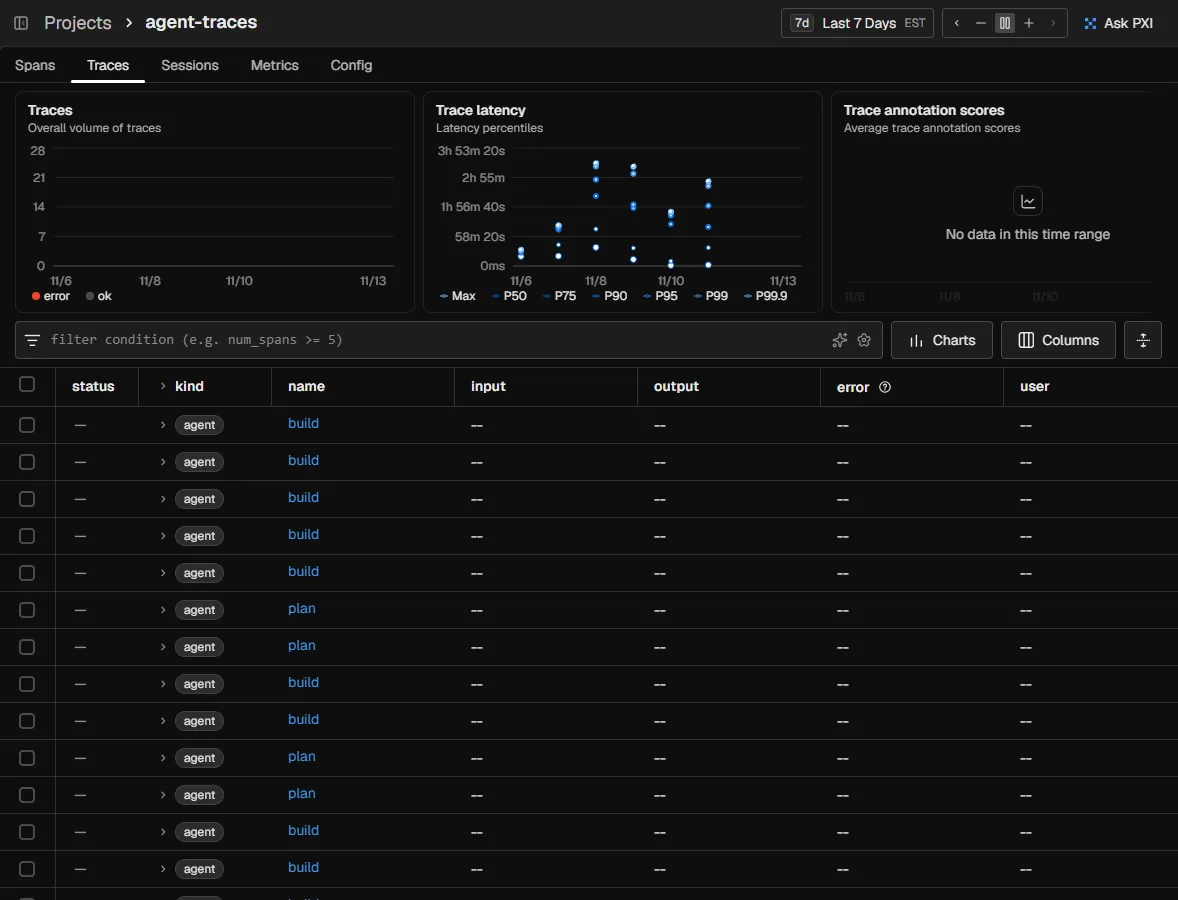
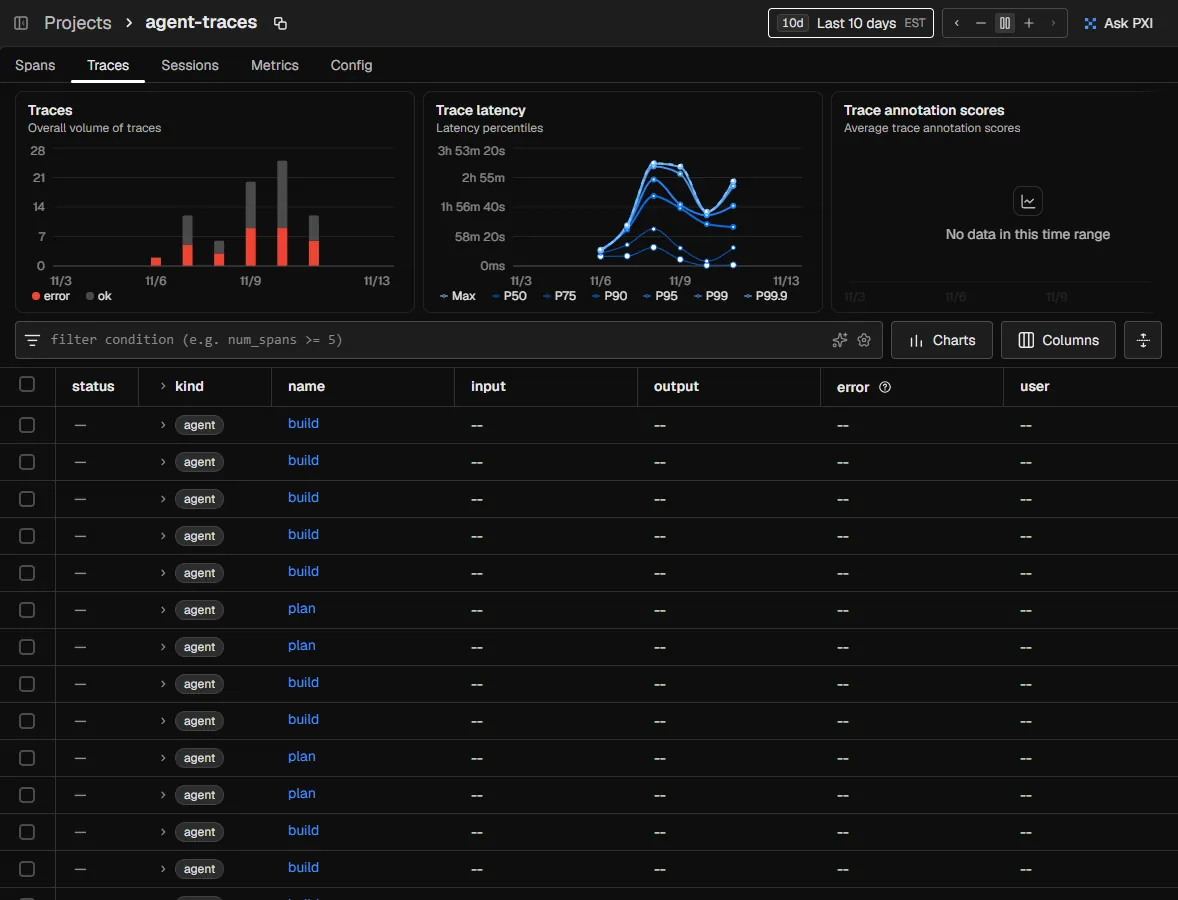
Use the retaken Phoenix screenshot (last 10 days, both charts filled) and reword its cost caption

diff --git a/web/lab/agent-observability.html b/web/lab/agent-observability.html
@@ -672,8 +672,8 @@ import pandas as pd
 df = pd.read_json("agent-traces.openinference.jsonl", lines=True)
 df = df.join(pd.json_normalize(df.pop("attributes").tolist()))</code></pre>
             <figure class="obs-shot">
-              <img src="./phoenix-traces.webp" width="1178" height="900" loading="lazy" decoding="async" alt="Arize Phoenix showing the agent-traces project: a trace latency chart by day above a list of root agent spans named build and plan, with input and output empty because they are never published.">
-              <figcaption>The published spans in Phoenix’s trace view. Where Phoenix shows a Total Cost column, that is its own estimate from model names and token counts, not a real cost: the work ran on a flat-rate subscription.</figcaption>
+              <img src="./phoenix-traces.webp" width="1178" height="900" loading="lazy" decoding="async" alt="Arize Phoenix showing the agent-traces project over the last 10 days: trace volume per day with errors in red, latency percentiles per day, and a list of root agent spans named build and plan, with input and output empty because they are never published.">
+              <figcaption>The published spans in Phoenix’s trace view. Phoenix can also estimate a cost from model names and token counts; that is its own estimate, not a real cost: the work ran on a flat-rate subscription.</figcaption>
             </figure>
             <p class="obs-download-note">Phoenix docs: <a class="lab-link" href="https://arize.com/docs/phoenix/tracing/concepts-tracing/otel-openinference/exporter">Exporter and OTLP</a> (Phoenix takes OTLP/HTTP on port 6006, at <code>/v1/traces</code>).</p>
           </div>

diff --git a/tests/obs-eval.test.js b/tests/obs-eval.test.js
@@ -396,7 +396,7 @@ test('download: both files linked with their sizes, the attributes they use, and
   assert.equal(webp.toString('ascii', 0, 4), 'RIFF');
   assert.equal(webp.toString('ascii', 8, 12), 'WEBP');
   assert.ok(webp.length <= 60_000, `${webp.length} bytes`);
-  assert.match(shot[2], /Total Cost column, that is its own estimate from model names and token counts, not a real cost: the work ran on a flat-rate subscription/);
+  assert.match(shot[2], /Phoenix can also estimate a cost from model names and token counts; that is its own estimate, not a real cost: the work ran on a flat-rate subscription/);
   assert.match(page, /the spans get new trace and span ids/);
   // The docs link is Phoenix's OTLP exporter page, not the import-existing-traces page.
   assert.match(page, /Phoenix docs: <a class="lab-link" href="https:\/\/arize\.com\/docs\/phoenix\/tracing\/concepts-tracing\/otel-openinference\/exporter">Exporter and OTLP<\/a>/);
